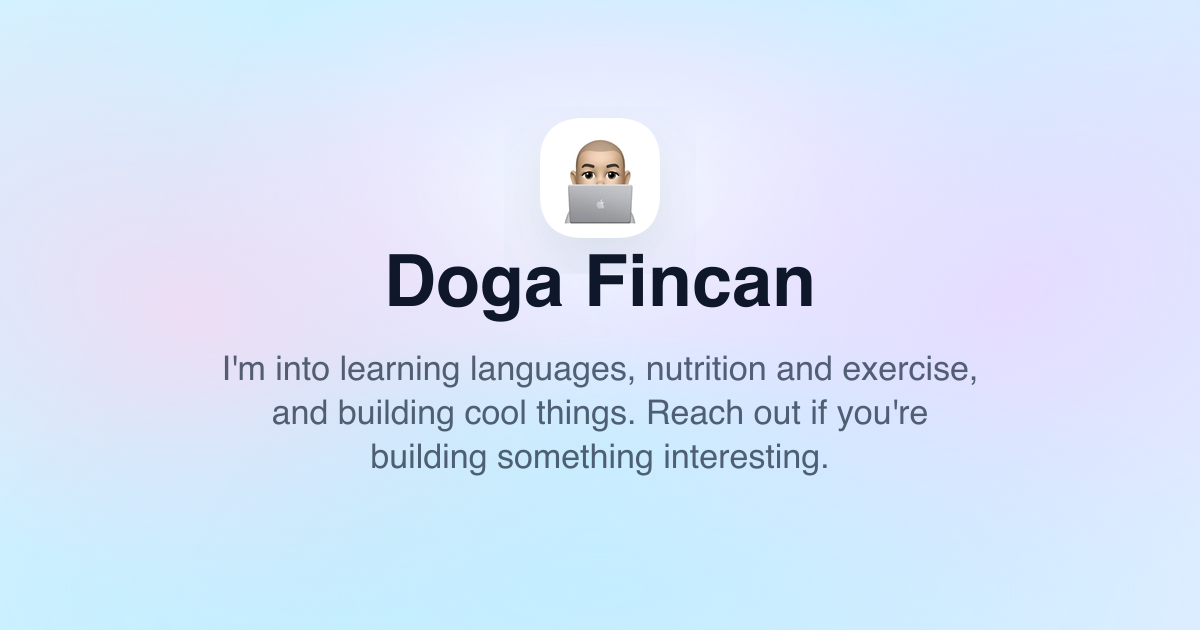
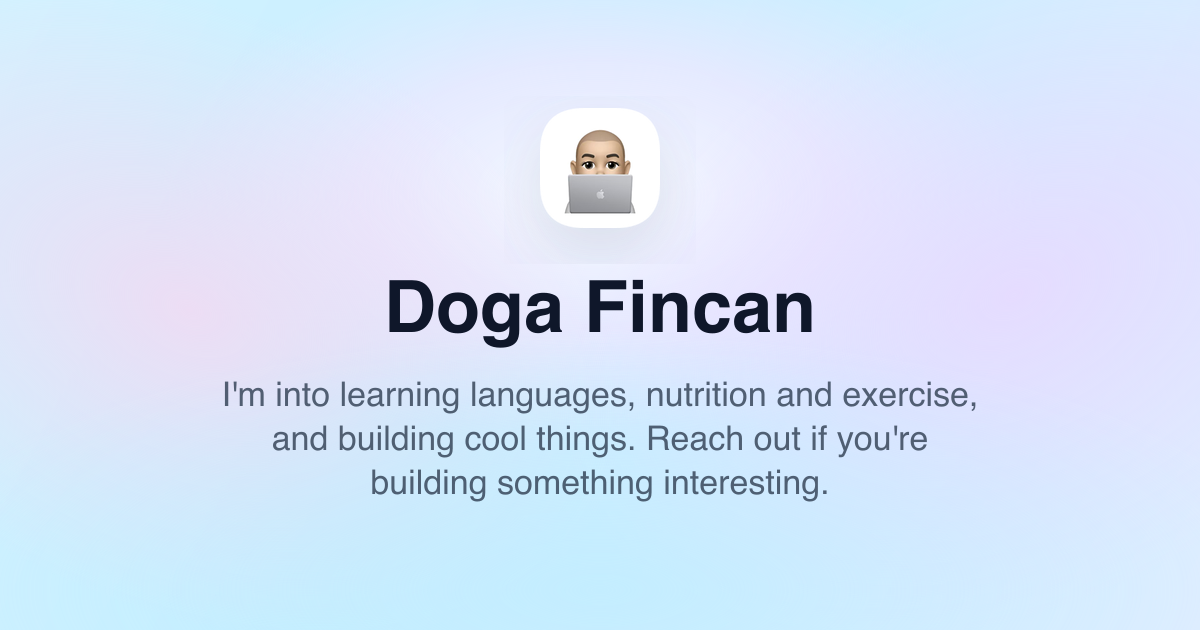
Increase portfolio social image spacing

Changed region(s): [[0.185, 0.3317, 0.8325, 0.7841], [0.4625, 0.2111, 0.5242, 0.3016]]

diff --git a/src/routes/-index.test.ts b/src/routes/-index.test.ts
@@ -43,7 +43,7 @@ describe("index route head", () => {
     expect(siteUrlMatch?.[1]).toBe("https://portfolio.dogafincan.workers.dev");
     expect(socialImageMatch?.[1]).toMatch(/^\/og-image\.png\?v=\d+$/);
     expect(new URL(`${siteUrlMatch?.[1]}${socialImageMatch?.[1]}`).href).toBe(
-      "https://portfolio.dogafincan.workers.dev/og-image.png?v=2026052002",
+      "https://portfolio.dogafincan.workers.dev/og-image.png?v=2026052003",
     );
     expect(source).not.toContain('const SOCIAL_IMAGE = "/og-image.png";');
 

diff --git a/src/routes/index.tsx b/src/routes/index.tsx
@@ -4,7 +4,7 @@ const PAGE_TITLE = "Doga Fincan Portfolio";
 const PAGE_DESCRIPTION =
   "I'm into learning languages, nutrition and exercise, and building cool things. Reach out if you're building something interesting.";
 const SITE_URL = "https://portfolio.dogafincan.workers.dev";
-const SOCIAL_IMAGE = `${SITE_URL}/og-image.png?v=2026052002`;
+const SOCIAL_IMAGE = `${SITE_URL}/og-image.png?v=2026052003`;
 
 export const Route = createFileRoute("/")({
   head: () => ({
